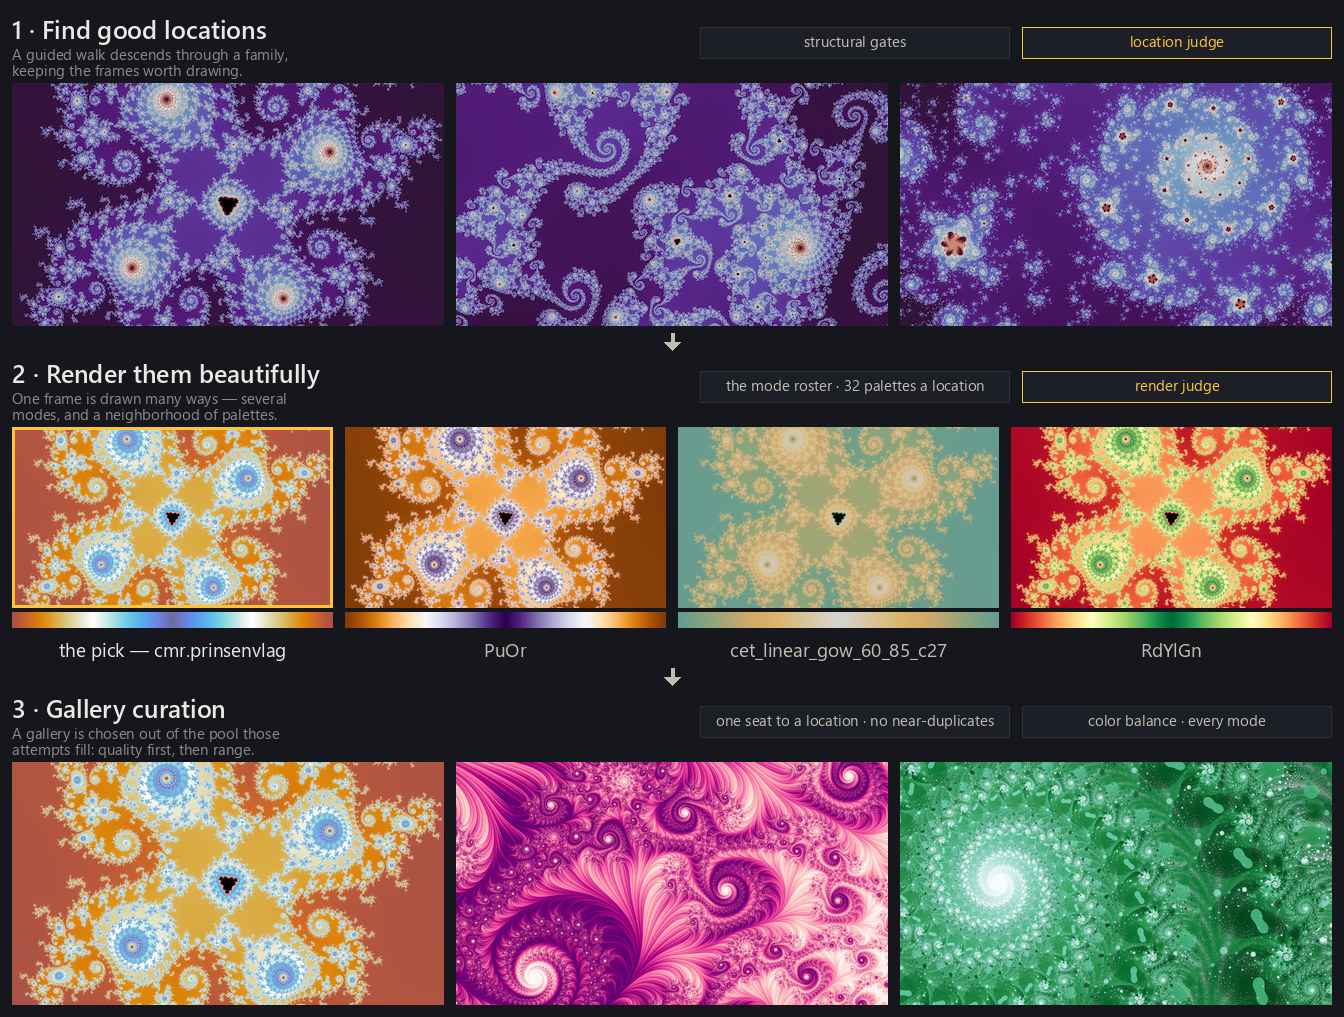
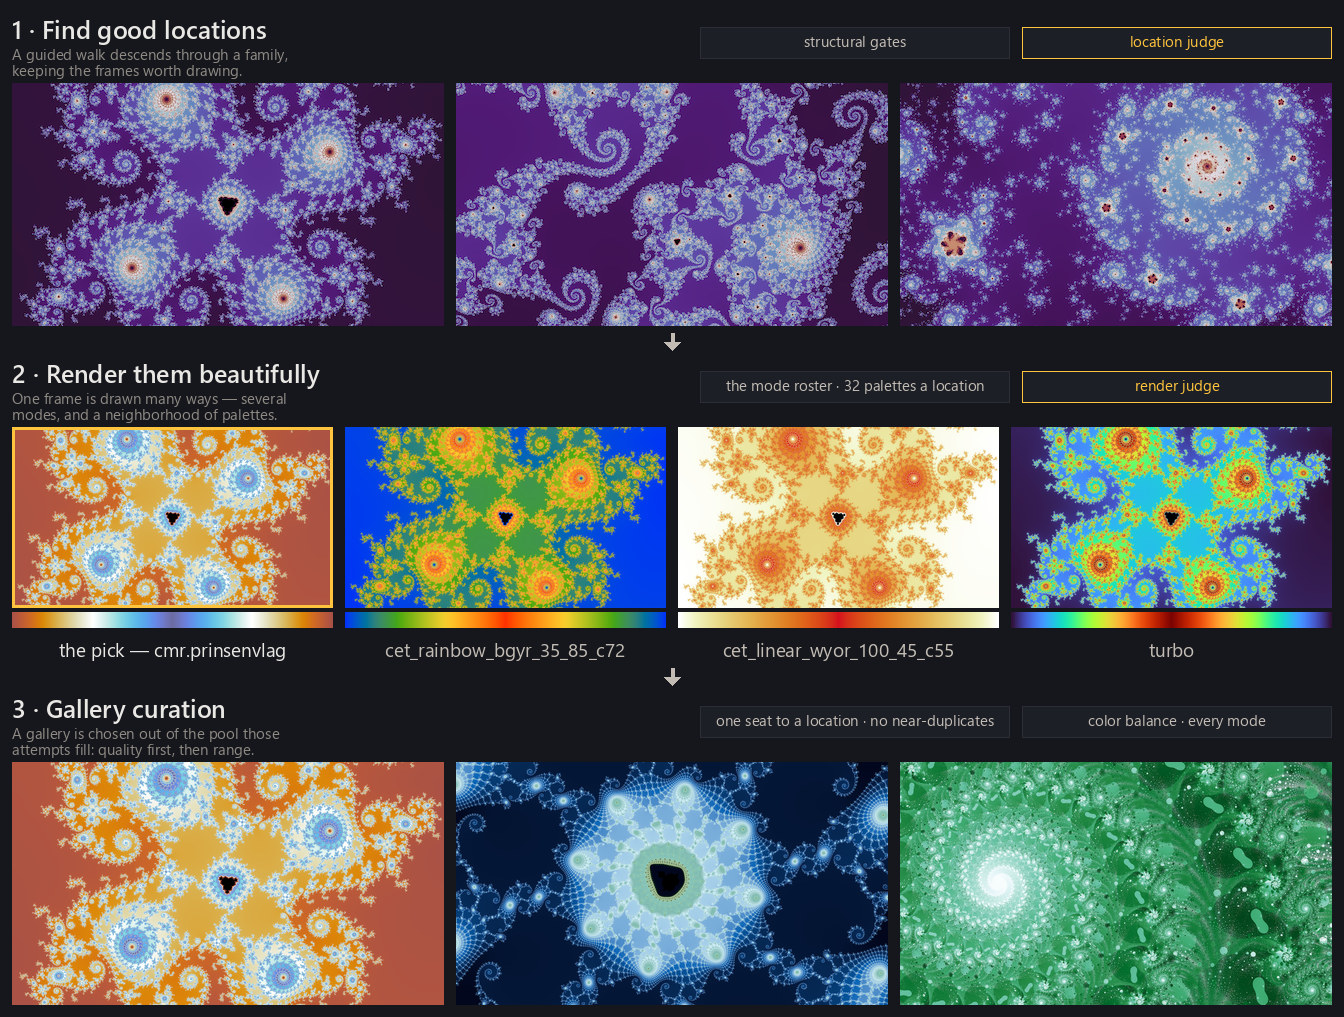
Re-pick the pipeline's third stage and widen its palette row
`77a7a313` half-overlapped the gallery hook's fourth panel in the same
pink; it is replaced by `8b27fa88`, a mandelbrot frame two decades deeper
than anything else on Overview, in exponential smoothing and azure. Stage
two's three alternates are now a uniform draw over the library rather
than the kept map's own neighbourhood, so the row shows the spread a
colorize is choosing out of instead of four warm diverging maps.

Colour palettes gains the sentence that introduces the mood-family
figure, and says the palette judge ranks a neighborhood of the library
rather than the whole of it, which is what the page's own diversity
paragraph already said.

Claude-Session: https://claude.ai/code/session_011xEL2BfdKk43kHmETDkybd

Changed region(s): [[0.25, 0.3963, 1.0, 0.6706], [0.3125, 0.7316, 0.6875, 1.0]]

diff --git a/article/color-palettes.html b/article/color-palettes.html
@@ -62,9 +62,9 @@
     modes that read one scalar field, coloring is a separate step over stored numbers, so
     the field can be kept and every palette tried on it is a lookup over the same array.
     The pipeline chooses each location's palettes with a trained palette judge, which ranks
-    the library against that location's field. Because every candidate for a field mode is a
-    recoloring of one stored field, a location can be shown in a hundred colorings in
-    seconds, which is why everything in this section is affordable.</p>
+    a neighborhood of the library against that location's field. Because every candidate for
+    a field mode is a recoloring of one stored field, a location can be shown in a hundred
+    colorings in seconds, which is why everything in this section is affordable.</p>
 
       <figure class="figure" data-figure="palette-locations">
         <a class="figure-open" href="../explorer/index.html?v=2&amp;x=0.36589157992999566&amp;y=0.3142062593823041&amp;w=0.0005254752858165241&amp;p=Amber%20Highlands" title="open in fractal explorer" aria-label="open in fractal explorer"><img src="../assets/images/figures/palette-locations.jpg" width="1316" height="828" alt="Three fractal locations down, three palettes across: nine renders in a grid, with a gradient strip above each column."><span class="figure-open-mark" aria-hidden="true">↗</span></a>
@@ -119,7 +119,8 @@
     of color space to ensure that we would be able to hit the full gamut of colors that can
     be rendered on a typical monitor.
     <a href="https://en.wikipedia.org/wiki/Gamut">This is actually a subset of the full range
-    of colors our eyes can perceive.</a></p>
+    of colors our eyes can perceive.</a> The figure below shows one palette from each family
+    the palette prompt names.</p>
 
       <figure class="figure" data-figure="palette-moods">
         <img src="../assets/images/figures/palette-moods.jpg" width="1316" height="1082" alt="Twenty-three gradient strips, one per mood family the palette prompt names, each labeled with its family and the palette shown.">
